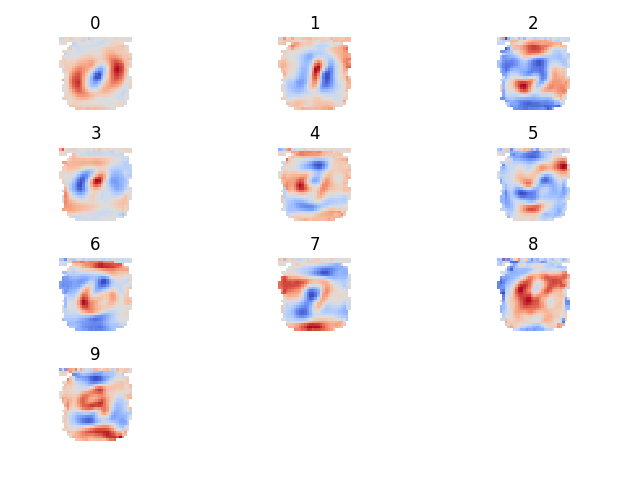
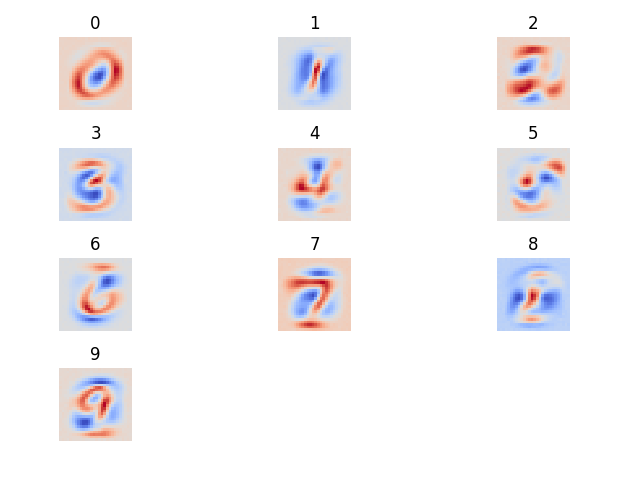
Add files via upload

diff --git a/lib/proise.py b/lib/proise.py
@@ -54,7 +54,7 @@ def generateBubbleMask(dimOfinput=(28,28), nbMasks=10, nbBubbles=10, bubbleSize=
 	return masks
 
 # generate probing samples from training set or with noise, or with pseudo-random noise from a testing set
-def generateProbingSamples(x_train_set = [], x_test_set = [], dimOfinput=(28,28), bubbleMasks = [], probingMethod = 'bubbles', samplesMethod = 'gaussianNoise', nDim_pca = 50, nbRevcorTrials = 1000):
+def generateProbingSamples(x_train_set = [], x_test_set = [], dimOfinput=(28,28), bubbleMasks = [], probingMethod = 'bubbles', samplesMethod = 'gaussianNoise', nDim_pca = 50, nbRevcorTrials = 1000, normalizeNoiseCoeff = 10):
 	if probingMethod == 'bubbles':
 		N_probing_samples = bubbleMasks.shape[0]
 		if samplesMethod == 'pseudoRandom':
@@ -71,7 +71,7 @@ def generateProbingSamples(x_train_set = [], x_test_set = [], dimOfinput=(28,28)
 		elif samplesMethod == 'gaussianNoise':
 			probingSamples = np.random.randn(nbRevcorTrials,np.product(dimOfinput)) 
 		elif samplesMethod == 'trainSet':
-			probingSamples =  np.reshape(x_train_set,(x_train_set.shape[0],np.product(dimOfinput)))[0:nbRevcorTrials,:]  + np.random.randn(nbRevcorTrials,np.product(dimOfinput))
+			probingSamples =  np.reshape(x_train_set,(x_train_set.shape[0],np.product(dimOfinput)))[0:nbRevcorTrials,:]  + np.random.randn(nbRevcorTrials,np.product(dimOfinput)) / normalizeNoiseCoeff
 	return probingSamples
 
 
